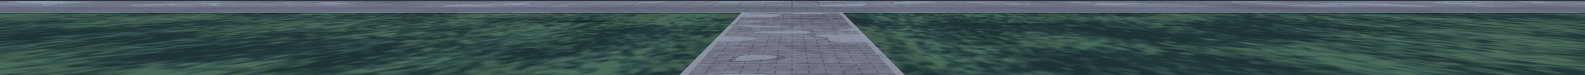
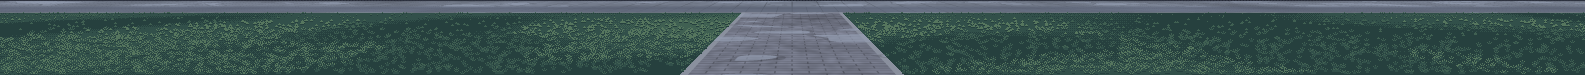
2.5D courtyard: rounded shrubs and pixel-art lawn
The hedge was a flat leafy box. It is now a row of rounded clipped
shrubs, each shaded as a ball (lit upper left, core shadow, darker rim
and foot) with leafy bumps on the rim. The lawn was a smooth blurred
noise; it is now broad patches of a few greens with dither only where
they meet, and grass tufts that are thicker in the lusher patches,
longer toward the camera, and lean over the path kerb.

Claude-Session: https://claude.ai/code/session_01CetL5zkYvFPaRRM6Eyxn95

diff --git a/tools/make_courtyard.py b/tools/make_courtyard.py
@@ -219,10 +219,61 @@ def make_ground(out_layers, out):
     x = (uu - OX) / PPM / np.maximum(s, 1e-6)
     col = ground_colour(x, z, Noise(7))
     col = col.reshape(h, ss, w, ss, 3).mean((1, 3))
+    lawn = (((z >= 7.15) & (np.abs(x) >= 1.6)).reshape(h, ss, w, ss).mean((1, 3)) > 0.5)
+    zc = z.reshape(h, ss, w, ss).mean((1, 3))
+    xc = x.reshape(h, ss, w, ss).mean((1, 3))
+    col = pixel_lawn(col, lawn, xc, zc)
     a = np.full((h, w), 255, np.uint8)
     lay.img = Image.fromarray(np.dstack([np.clip(col, 0, 255).astype(np.uint8), a]))
     lay.face("y", x0=-45.0, x1=45.0, y=0.0, z0=0.0, z1=24.0)
     out_layers.append(lay.save(out))
+
+
+GREENS = np.array([[28, 48, 50], [38, 64, 62], [50, 80, 74], [64, 96, 82], [86, 118, 94], [110, 140, 106]])
+BAYER = np.array([[0, 8, 2, 10], [12, 4, 14, 6], [3, 11, 1, 9], [15, 7, 13, 5]]) / 16.0
+
+
+def pixel_lawn(col, lawn, x, z):
+    """Lawn as pixel art: broad patches of a few greens (dither only where they meet), then grass
+    tufts (a few blades fanning out, lit tips, dark roots), thicker in the lighter patches and longer
+    toward the camera; tufts at the path lean over the kerb."""
+    h, w = lawn.shape
+    rng = np.random.default_rng(21)
+    near = np.clip((z - 7.0) / 11.0, 0, 1)                      # 0 at the hedge .. 1 near the camera
+    noise = Noise(31)
+    patch = noise(x, z, 1.4, 2.2)
+    level = 2.45 - 0.7 * near + 0.45 * patch                   # far: lighter, hazier; near: darker
+    level -= 0.9 * np.clip(1 - (z - 7.15) / 0.5, 0, 1)         # damp shade at the hedge foot
+    vv, uu = np.mgrid[0:h, 0:w]
+    idx = np.floor(level + (BAYER[vv % 4, uu % 4] - 0.5) * 0.5).astype(int)   # dither only near edges
+    out = col.copy()
+    out[lawn] = GREENS[np.clip(idx, 1, 3)][lawn]
+    ys, xs = np.nonzero(lawn)
+    lush = np.clip(0.5 + 0.5 * patch, 0, 1)
+    keep = rng.random(len(ys)) < 0.07 * (0.3 + lush[ys, xs])
+    ys, xs = ys[keep], xs[keep]
+    for i in np.argsort(ys):                                    # far rows first, near tufts overlap
+        v, u = ys[i], xs[i]
+        nr = near[v, u]
+        length = int(np.clip(round(1.5 + 3.5 * nr * rng.uniform(0.7, 1.2)), 2, 5))
+        tip = GREENS[4] if (lush[v, u] > 0.5 and nr > 0.2) else GREENS[3]
+        lean = (-1 if x[v, u] > 0 else 1) if abs(x[v, u]) < 1.85 else 0
+        blades = [(0, length, lean)]
+        if length >= 3:
+            blades += [(-1, length - 1, -1 + lean), (1, length - 1, 1 + lean)]
+        for du, ln, bend in blades:
+            for j in range(ln):
+                vy = v - j
+                ux = u + du + (bend if j >= ln - 1 and ln > 2 else 0)
+                if not (0 <= vy < h and 0 <= ux < w):
+                    continue
+                if j == 0:
+                    out[vy, ux] = GREENS[1]
+                elif j == ln - 1:
+                    out[vy, ux] = tip
+                else:
+                    out[vy, ux] = GREENS[2] if ln > 3 else tip
+    return out
 
 
 # ---------------------------------------------------------------- covered walkway
@@ -331,41 +382,63 @@ def quilt(leaves, w, h, rng, block=30, overlap=10):
     return out / np.maximum(weight, 1e-6)
 
 
-HEDGE = dict(front=7.95, back=7.3, h=0.85, gap=1.95, end=24.0)
+HEDGE = dict(front=7.95, h=0.9, gap=1.95, end=24.0)
 
 
 def make_hedge(path, out_layers, out):
-    """Trimmed hedge: dense author leaves, lit from the sky on top, darker toward the foot, soft lumps."""
+    """Row of rounded clipped shrubs: dense author leaves on each shrub, shaded as a ball (lit from the
+    upper left by the grey sky, core shadow lower right), leafy rims, dark gaps and a dark foot."""
     H = HEDGE
     m = k(H["front"]) * PPM
     leaves = load_leafage(path, 0.3 * m / 33)
+    bush = load_bush(path)
     rng = np.random.default_rng(5)
+    light = np.array([-0.45, -0.75, 0.5])
+    light /= np.linalg.norm(light)
     for side in (-1, 1):
         x0, x1 = (H["gap"], H["end"]) if side > 0 else (-H["end"], -H["gap"])
-        lay = Layer("hedge_" + ("r" if side > 0 else "l"), x0, x1, 0.0, H["h"] + 0.15, H["front"])
-        u0, v0, u1, v1 = (round(v) for v in lay.rect(x0, x1, 0.0, H["h"], H["front"]))
+        lay = Layer("hedge_" + ("r" if side > 0 else "l"), x0 - 0.2, x1 + 0.2, 0.0, H["h"] + 0.25, H["front"])
         w, h = lay.img.size
-        t = quilt(leaves, w, h, rng)
+        acc = np.zeros((h, w, 4))
+        foot = round(lay.local(*pic(0, 0.0, H["front"]))[1])
+        # shrub centres along the row, sizes varied, overlapping
+        shrubs, xx = [], x0 + 0.5
+        while xx < x1 - 0.4:
+            r = rng.uniform(0.5, 0.72)
+            shrubs.append((min(xx, x1 - r * 0.8), r, rng.uniform(0.82, 1.0) * H["h"]))
+            xx += r * rng.uniform(1.25, 1.55)
+        tex = quilt(leaves, w, h, rng)
         vv, uu = np.mgrid[0:h, 0:w]
-        f = np.clip((vv - v0) / max(1, v1 - v0), 0, 1)
-        lumps = gaussian_filter(rng.normal(0, 1, (h, w)), (6, 10))
-        lumps /= lumps.std()
-        light = (1.08 - 0.55 * f) * (1 + 0.07 * lumps)
-        t[..., :3] *= light[..., None]
-        holes = t[..., 3] < 128
-        t[..., :3] = np.where(holes[..., None], np.array([36, 58, 58]) * light[..., None], t[..., :3])
-        top = v0 + np.round(gaussian_filter(rng.normal(0, 1, w), 3) * 4).astype(int)  # uneven clipped top
-        inside = (vv >= top[None, :]) & (vv <= v1) & (uu >= u0) & (uu <= u1)
-        for cu in (u0, u1):                                        # rounded ends at the path
-            near = np.abs(uu - cu)
-            inside &= ~((near < 4) & ((near - 4) ** 2 + (vv - top[None, :] - 4) ** 2 > 18)
-                        & (vv < top[None, :] + 4))
-        first = inside & ~np.roll(inside, 1, 0)
-        t[..., :3] = np.where(first[..., None], t[..., :3] * 1.18 + 10, t[..., :3])  # sky light on the cut top
-        t[..., 3] = np.where(inside, 255, 0)
-        lay.img = Image.fromarray(np.clip(t, 0, 255).astype(np.uint8))
-        lay.face("box", x0=x0, x1=x1, y0=0.0, y1=H["h"] + 0.15, zf=H["front"], zb=H["back"])
-        lay.face("y", x0=x0, x1=x1, y=H["h"], z0=H["front"], z1=H["back"])
+        for cx_m, r, top in shrubs:
+            cu = lay.local(*pic(cx_m, 0, H["front"]))[0]
+            rx = r * m
+            ry = top * m * 0.62
+            cv = foot - ry * 0.95
+            edge = gaussian_filter(rng.normal(0, 1, (h, w)), 1.6) * 0.18
+            nx, ny = (uu - cu) / rx, (vv - cv) / ry
+            d2 = nx ** 2 + ny ** 2 + edge
+            inside = (d2 < 1.0) & (vv <= foot)
+            nz = np.sqrt(np.clip(1 - nx ** 2 - ny ** 2, 0, 1))
+            lam = np.clip(nx * light[0] + ny * light[1] + nz * light[2], 0, 1)
+            shade = 0.42 + 0.78 * lam
+            shade *= np.where(d2 > 0.82, 0.8, 1.0)                 # darker rim: reads round
+            shade *= 1 - 0.35 * np.clip((vv - (foot - ry * 0.35)) / (ry * 0.4), 0, 1)   # dark foot
+            colr = tex[..., :3] * shade[..., None]
+            holes = tex[..., 3] < 128
+            colr = np.where(holes[..., None], np.array([30, 50, 52]) * shade[..., None], colr)
+            acc[inside, :3] = colr[inside]
+            acc[inside, 3] = 255
+            # leafy bumps on the lit upper rim
+            img = Image.fromarray(np.clip(acc, 0, 255).astype(np.uint8))
+            for a in np.linspace(np.pi * 1.1, np.pi * 1.9, 4):
+                st = stamp(bush, rx * rng.uniform(0.55, 0.75), rng.random() < 0.5,
+                           0.95 + 0.25 * max(0, -np.cos(a)) * 0.6)
+                px, py = cu + np.cos(a) * rx * 0.8, cv + np.sin(a) * ry * 0.82
+                img.alpha_composite(st, (int(px - st.width / 2), int(py - st.height * 0.55)))
+            acc = np.asarray(img).astype(float)
+        # contact shadow line on the ground at the foot
+        lay.img = Image.fromarray(np.clip(acc, 0, 255).astype(np.uint8))
+        lay.face("z", x0=x0 - 0.2, x1=x1 + 0.2, y0=0.0, y1=H["h"] + 0.25, z=H["front"])
         out_layers.append(lay.save(out))
 
 
